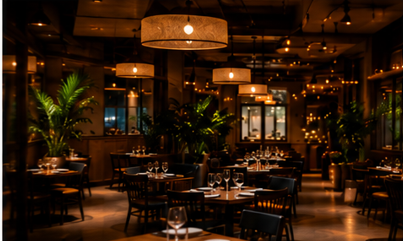
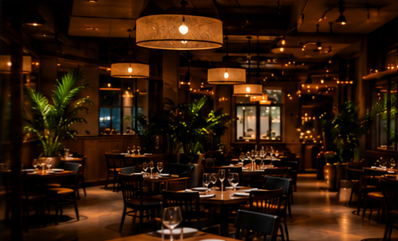
main section add

diff --git a/style.css b/style.css
@@ -113,3 +113,111 @@
 }
 
 /* Hero section ends here */
+
+/* Main section starts here */
+
+.main{
+    width: 100%;
+    height: 400px;
+    display: flex;
+    justify-content: space-between;
+    align-items: center;
+    background-color: rgba(240, 236, 236, 0.904);
+}
+.main1{
+    width: 40%;
+    height: 400px;
+    display: flex;
+    align-items: center;
+
+
+}
+.main1-1st-img{
+    margin-left: 80px;
+    border-radius: 10px;
+    width: 220px;
+    height: 300px;
+}
+
+.main1-2nd-img{
+    border-left: 2px solid white;
+    border-top: 2px solid white;
+    border-radius: 10px;
+    width: 165px;
+    height: 200px;
+    z-index: 1;
+    position: absolute;
+    left: 250px;
+}
+.main2{
+    text-align: center;
+    display: flex;
+    flex-direction: column;
+    justify-content: center;
+    align-items: center;
+    color: white;
+    position: relative;
+    right: 80px;
+    top: 80px;
+    width: 100px;
+    height: 100px;
+    background-color: black;
+    border-radius: 100%;
+    border: 1.5px solid rgb(150, 100, 6);
+    z-index: 2;
+}
+.main2-1st-child{
+    color: rgb(150, 100, 6);
+    font-size: 30px;
+    font: bold;
+    margin-bottom: 3px;
+    font-family: Arial, Helvetica, sans-serif;
+}
+.main2-2nd-child{
+    font-size: 10px;
+    letter-spacing: 1px;
+    font-family: system-ui, -apple-system, BlinkMacSystemFont, 'Segoe UI', Roboto, Oxygen, Ubuntu, Cantarell, 'Open Sans', 'Helvetica Neue', sans-serif;
+}
+.main3{
+    width: 35%;
+    height: 350px;
+    margin-right: 150px;
+    margin-top: 50px;
+    /* display: flex;
+    flex-direction: column;
+    justify-content: center;
+    align-items: left; */
+}
+.main3 h1{
+    font-size: 12px;
+    color: rgb(190, 127, 9);
+    font-family: sans-serif;
+    margin-bottom: 10px;
+}
+.main3 h2{
+    font-size: 40px;
+    margin-bottom: 5px;
+}
+.main3-1st-img{
+    width: 170px;
+    margin-bottom: 10px;
+}
+.main3 p{
+    font-size: 13px;
+    color: rgb(91, 90, 90);
+}
+.main3-2nd-img{
+    width: 350px;
+    color: black;
+}
+.main3 button{
+    background-color: rgb(188, 126, 10);
+    width: 110px;
+    color: white;
+    font: bold;
+    font-family: Arial, Helvetica, sans-serif;
+    border: none;
+    border-radius: 5px;
+    margin-top: 10px;
+    height: 30px;
+}

diff --git a/index.html b/index.html
@@ -54,6 +54,27 @@
         </div>
     </header>
     <!-- Hero section ends here -->
+     <!-- Main section starts here -->
+
+     <main class="main">
+        <div class="main1">
+            <img src="images/main1.png" alt="" class="main1-1st-img">
+            <img src="images/main2.png" alt="" class="main1-2nd-img">
+            <div class="main2">
+              <span class="main2-1st-child">10+</span>
+              <span class="main2-2nd-child">Years of <br> Experience</span>
+            </div>
+        </div>
+        <div class="main3">
+            <h1>About Us</h1>
+            <h2>Our Story</h2>
+            <img src="images/simble.png" alt="" class="main3-1st-img">
+            <p>Lorem ipsum dolor, sit amet consectetur adipisicing elit. A, distinctio! Aliquam a rem officiis tempora quos fuga nostrum itaque illo accusantium ipsum est sed dolores assumenda neque, hic esse vitae possimus cum optio. Reiciendis animi repellendus odit porro laboriosam! Id ab unde odio molestiae et soluta qui rerum quasi tempore.</p>
+            <img src="images/main3.png" alt="" class="main3-2nd-img">
+            <button>Learn More</button>
+        </div>
+
+     </main>
 
 
 </body>